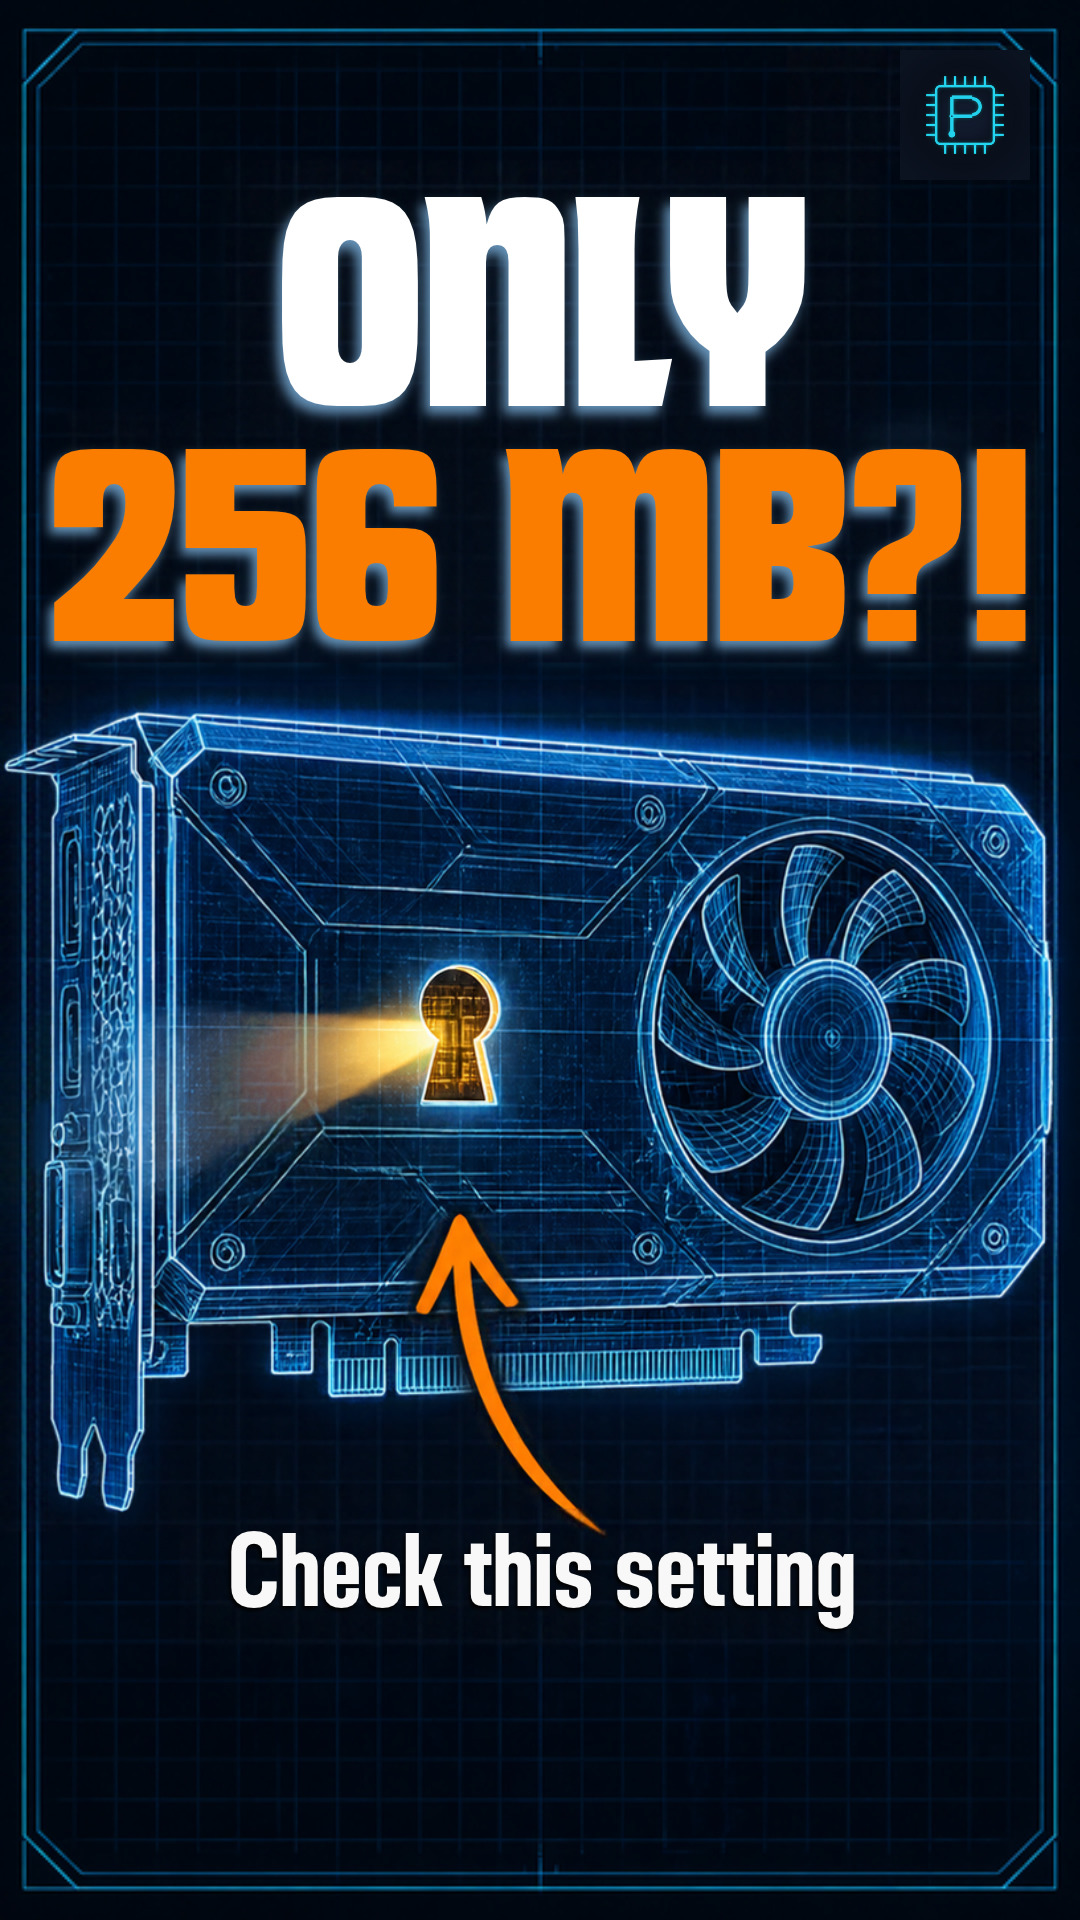
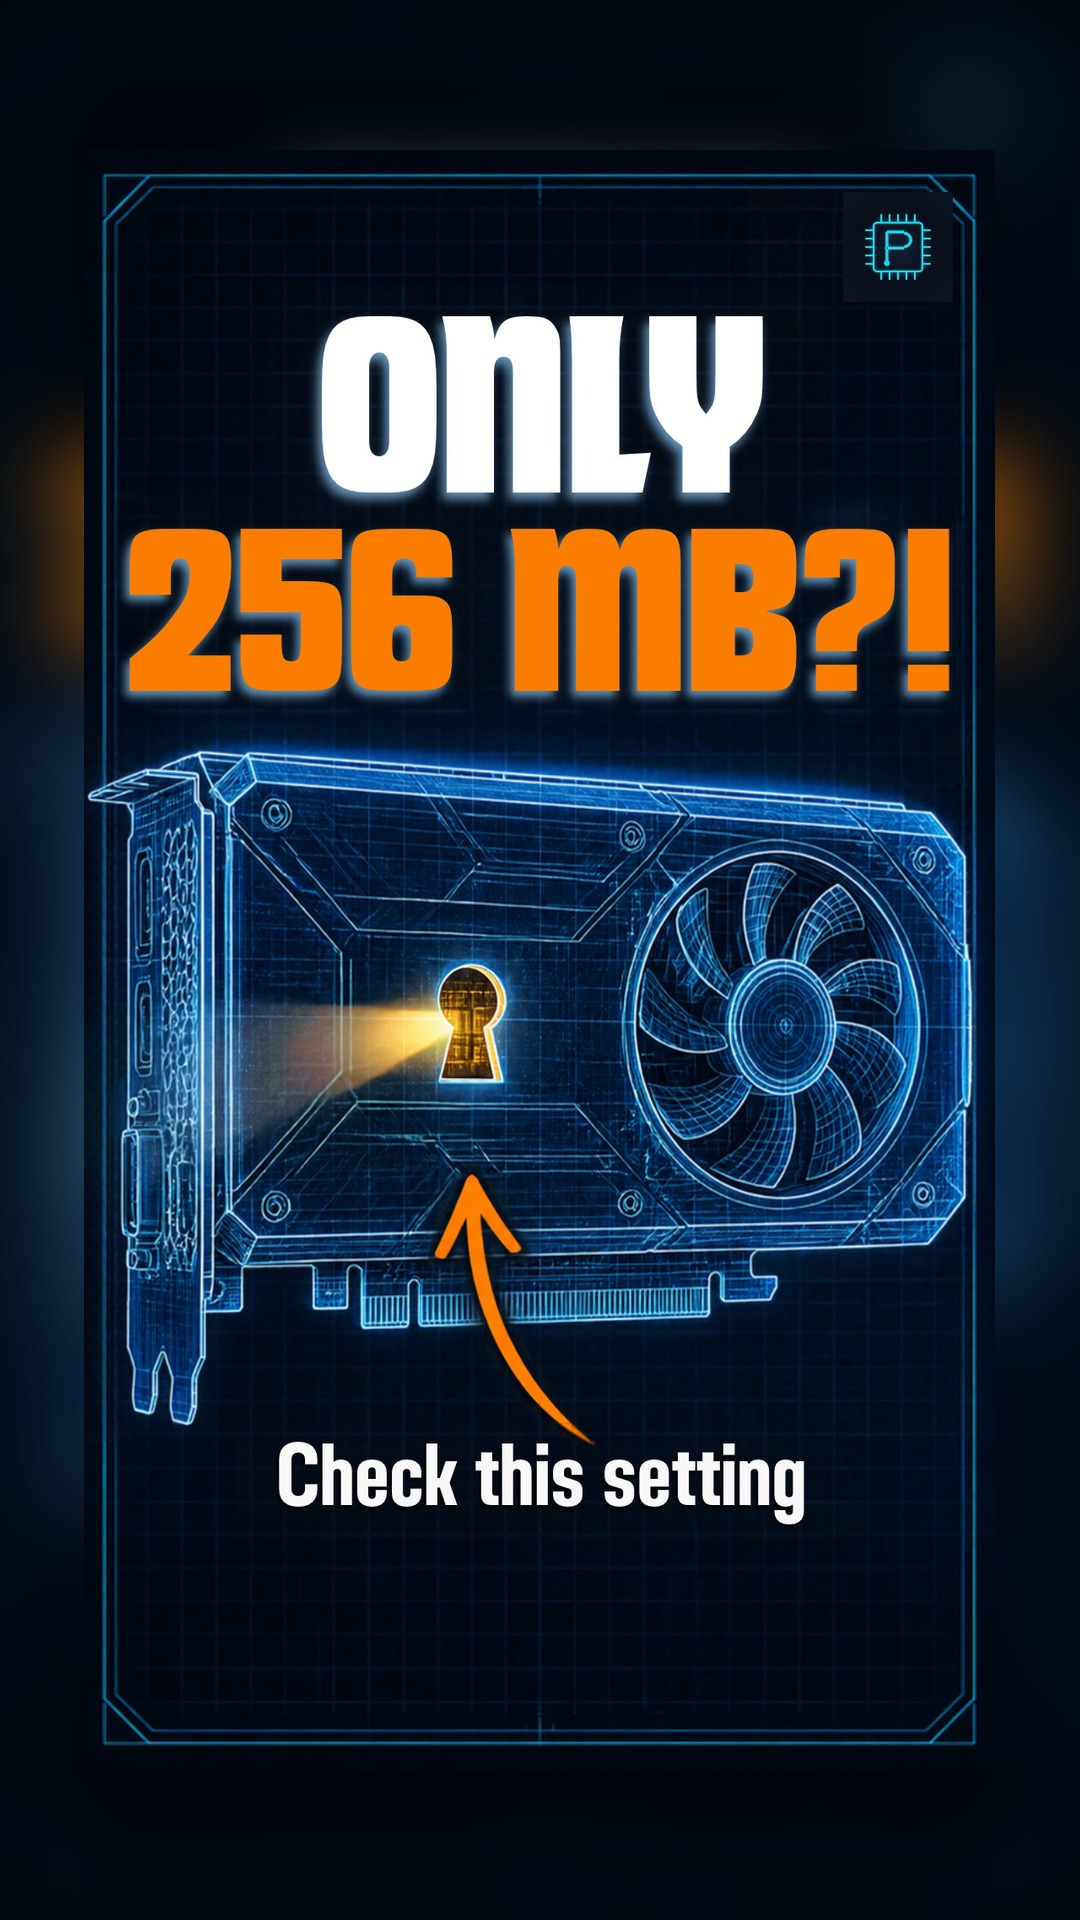
Shorts thumbnails: fit the design into YouTube's 2:3 crop (brand_thumb.py shorts_safe), re-set 10s2 and 23s1
Claude-Session: https://claude.ai/code/session_0172qTtyiomsRLR27RQusAov

diff --git a/brand_thumb.py b/brand_thumb.py
@@ -1,21 +1,41 @@
 """Stamp the Plainly Silicon logo on a thumbnail (same size and spot on every thumbnail).
 
-Usage: python3 brand_thumb.py IN.jpg OUT.jpg   (16:9 long-video or 9:16 Shorts thumbnail)
+Usage: python3 brand_thumb.py IN.jpg OUT.jpg [--no-logo]   (16:9 long-video or 9:16 Shorts thumbnail;
+9:16 ones are fitted into the 2:3 area YouTube actually shows)
 Canva makes the design; this adds the brand mark so it never depends on the generated layout:
 the logo tile in the top-right corner (bottom-right is covered by YouTube's duration badge), 9% of the thumbnail height from the edges.
 """
 import os, sys
-from PIL import Image, ImageDraw
+from PIL import Image, ImageDraw, ImageFilter
 
 HERE = os.path.dirname(os.path.abspath(__file__))
 
 
-def stamp(src, dst):
+def shorts_safe(im):
+    """YouTube crops Shorts thumbnails to about 2:3 (Studio grid, Shorts shelves), cutting ~8% off
+    the top and bottom of a 9:16 image. Fit the whole design inside the centre 2:3 area and fill
+    the rest of the 1080x1920 frame with a blurred copy, so nothing important is ever cropped."""
+    W, H = 1080, 1920
+    safe_h = int(W * 3 / 2)                      # 1620: the part every surface shows
+    s = safe_h / im.height
+    fg = im.resize((int(im.width * s), safe_h), Image.LANCZOS)
+    bg = im.resize((W, H), Image.LANCZOS).filter(ImageFilter.GaussianBlur(40))
+    bg = Image.blend(bg, Image.new("RGB", (W, H), (0, 0, 0)), 0.35)
+    bg.paste(fg, ((W - fg.width) // 2, (H - safe_h) // 2))
+    return bg
+
+
+def stamp(src, dst, logo_too=True):
     im = Image.open(src).convert("RGB")
     # long videos: 1280x720 (16:9); Shorts: 1080x1920 (9:16, vertical like the Short itself)
     target = (1280, 720) if im.width > im.height else (1080, 1920)
     if im.size != target:
         im = im.resize(target, Image.LANCZOS)
+    if target == (1080, 1920):
+        im = shorts_safe(im)
+    if not logo_too:
+        im.save(dst, quality=92)
+        return
     w, h = im.size
     s = int(min(w, h) * 0.13)          # logo size (94 px on 1280x720)
     m = int(min(w, h) * 0.035)         # margin from the edges
@@ -30,5 +50,6 @@ def stamp(src, dst):
 
 
 if __name__ == "__main__":
-    stamp(sys.argv[1], sys.argv[2])
+    # --no-logo: the design already has the logo (e.g. the owner's own Canva covers)
+    stamp(sys.argv[1], sys.argv[2], logo_too="--no-logo" not in sys.argv)
     print("ok", sys.argv[2])

diff --git a/AGENT.md b/AGENT.md
@@ -58,7 +58,7 @@ Why: on Nov 24, 2026 the channel had 48 videos, about 22,800 views and 33 subscr
 
 - **Titles under 55 characters.** Lead with the viewer's problem or a verdict, not the part name: "Slow PC? More RAM Probably Won't Fix It", not "What Is a Page File". Shorts: under 55 characters plus " #shorts". Planned titles in `calendar.json` are drafts: re-check them against the finished script.
 - **Thumbnails are made in Canva (owner, Nov 26, 2026), for every long video AND every Short.** Use the Canva connector: `create-design` with format "YouTube Thumbnail" (long videos) or a 9:16 format (Shorts) and a brief that gives: at most 3 words that don't repeat the title, one big part render, high contrast, the video's theme colors, the brand title font (Inter Black style), no real brand logos, readable on a phone. Poll `get-create-design-async-job`, then `export-design` as JPG 1280x720 (Shorts: 1080x1920) and download it (export-download.canva.com is allowed in this environment). Look at it before using it. Save the export as `videos/<slug>/thumbnail_canva.jpg`, then **always** run `python3 brand_thumb.py videos/<slug>/thumbnail_canva.jpg videos/<slug>/thumbnail.jpg`: it stamps the Plainly Silicon logo in the top-right corner (bottom-right is hidden by YouTube's duration badge), the same on every thumbnail. **Canva's AI credits are limited on the free plan and ran out on Nov 26, 2026.** If Canva says `quota_exceeded` (or isn't connected in your run), never buy credits: draw the thumbnail in code instead (`videos/<slug>/thumbnail.py` writing `thumbnail_raw.jpg`, same rules, brand title font; see `videos/10s2-80-plus-only-efficiency/thumbnail.py`), stamp it with `brand_thumb.py`, and say in the report that Canva was unavailable. `youtube_upload.py` sets `thumbnail.jpg` on long videos and Shorts alike.
-- **Shorts thumbnails are vertical: 1080x1920 (9:16), never 16:9** (owner, Nov 26, 2026). In Canva use a 9:16 format (e.g. "YouTube Shorts" / "Your Story") and export JPG 1080x1920; `brand_thumb.py` keeps vertical images 1080x1920. Long videos stay 1280x720. Before making one, look in the owner's Canva (`search-designs`, newest first) for a design titled like "Plainly Silicon Shorts cover" for that Short: the owner sometimes makes them, and theirs win. Their covers already carry the logo, so don't stamp it twice.
+- **Shorts thumbnails are vertical: 1080x1920 (9:16), never 16:9** (owner, Nov 26, 2026). In Canva use a 9:16 format (e.g. "YouTube Shorts" / "Your Story") and export JPG 1080x1920; `brand_thumb.py` keeps vertical images 1080x1920. Long videos stay 1280x720. Before making one, look in the owner's Canva (`search-designs`, newest first) for a design titled like "Plainly Silicon Shorts cover" for that Short: the owner sometimes makes them, and theirs win. Their covers already carry the logo: run `brand_thumb.py IN OUT --no-logo` on them. **Always run Shorts thumbnails through `brand_thumb.py`:** YouTube shows Shorts thumbnails cropped to about 2:3 (Studio, Shorts shelves), cutting ~8% off the top and bottom of a 9:16 image, so the script fits the whole design into that centre 2:3 area and fills the rest with a blurred copy. Check it by cropping the result to its middle 1080x1620.
 - **The owner confirms long-video thumbnails the evening before.** A Friday 7:50 PM check-in in the owner's chat session shows Saturday's thumbnail and asks to confirm; nothing changes on YouTube until they answer. Upload long videos with your best Canva thumbnail; the check-in replaces it if the owner asks.
 - **Thumbnail content (long videos and Shorts):** at most 3 words, one big part render, high contrast, and the words must not repeat the title.
 
